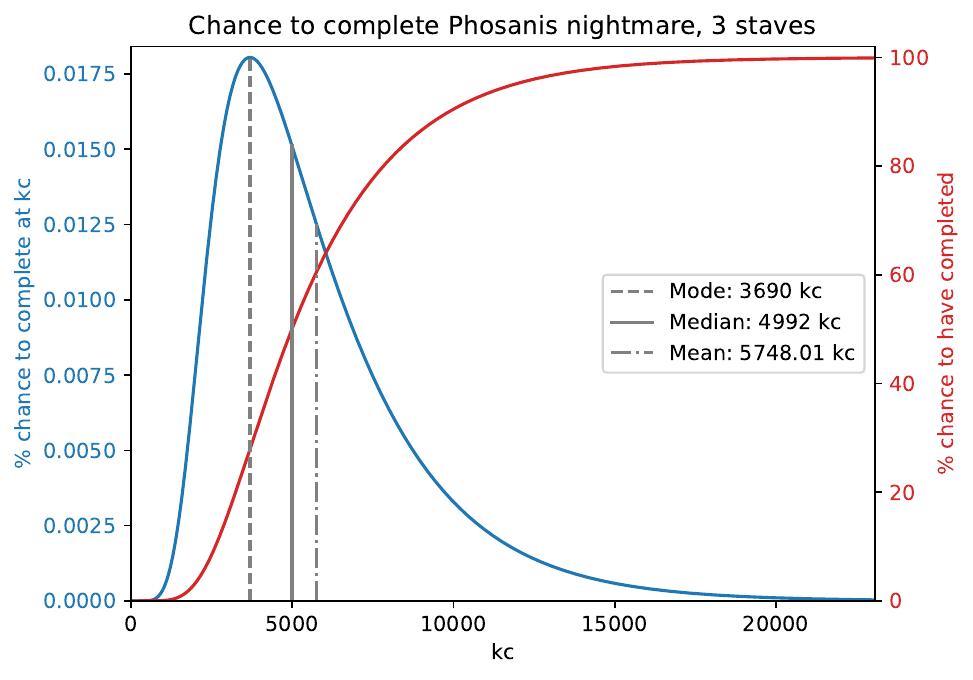
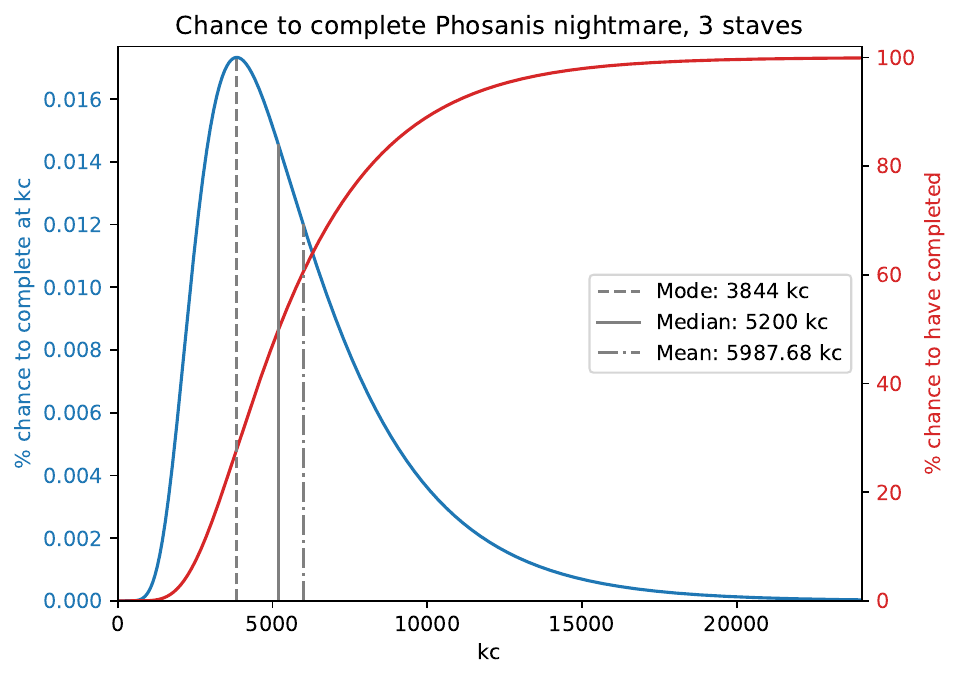
restore nm rates update phosanis

diff --git a/bosses.py b/bosses.py
@@ -378,8 +378,8 @@ class kree_arra(gwd):
     loot_amount = {"armadyl helmet":1,"armadyl chestplate":1, "armadyl chainskirt":1, "armadyl hilt":1,"godsword shard 1":0,"godsword shard 2":0,"godsword shard 3":0}
 
 class nightmare(monster):
-    loot_odds = {"inquisitor's great helm":1/960,"inquisitor's hauberk":1/960,"inquisitor's plateskirt":1/960, "inquisitor's mace":1/1920, "nightmare staff":1/640}
-    secondary_odds = {"eldritch orb":1/2880, "harmonised orb":1/2880,"volatile orb":1/2880}
+    loot_odds = {"inquisitor's great helm":1/600,"inquisitor's hauberk":1/600,"inquisitor's plateskirt":1/600, "inquisitor's mace":1/1200, "nightmare staff":1/400}
+    secondary_odds = {"eldritch orb":1/1800, "harmonised orb":1/1800,"volatile orb":1/1800}
     loot_amount = {"inquisitor's great helm":1,"inquisitor's hauberk":1,"inquisitor's plateskirt":1, "inquisitor's mace":1, "nightmare staff":1, "eldritch orb":1, "harmonised orb":1,"volatile orb":1}
 
     def __init__(self, teamsize=1, **kwargs):
@@ -404,8 +404,8 @@ class nightmare(monster):
         return loot
 
 class phosanis_nightmare(monster):
-    loot_odds = {"inquisitor's great helm":1/960,"inquisitor's hauberk":1/960,"inquisitor's plateskirt":1/960, "inquisitor's mace":1/1920, "nightmare staff":1/640}
-    secondary_odds = {"eldritch orb":1/2880, "harmonised orb":1/2880,"volatile orb":1/2880}
+    loot_odds = {"inquisitor's great helm":1/1000,"inquisitor's hauberk":1/1000,"inquisitor's plateskirt":1/1000, "inquisitor's mace":1/2000, "nightmare staff":1/667}
+    secondary_odds = {"eldritch orb":1/3000, "harmonised orb":1/3000,"volatile orb":1/3000}
     loot_amount = {"inquisitor's great helm":1,"inquisitor's hauberk":1,"inquisitor's plateskirt":1, "inquisitor's mace":1, "nightmare staff":1, "eldritch orb":1, "harmonised orb":1,"volatile orb":1}
     
     def __init__(self, teamsize=1, **kwargs):
@@ -577,5 +577,5 @@ nex8man = nex(loot_amount = {"Zaryte vambraces":1,"Torva full helm (damaged)":1,
 
 tob3man = theatre_of_blood(loot_amount = {"scythe of vitur":1, "grazi rapier":1,"sanguinesti staff":1, "justiciar faceguard":1, "justiciar chestguard":1, "justiciar legguard":1, "avernic hilt":1}, name="Theatre of blood (3 man)", teamsize=3)
 
-complete_drops = [pnightjustinq, pnightinq, cg, cg1seed, hydra, hydra2, krak, kq, dks, ven, ven2, ven3, cerb, cerb2, sire, corp, zul, zul2, pnight, night, vork, temp, temp1, temp2, nextorvavambraces, nextorva, nextorvanihilvambraces, nex6man, tob3man]
+complete_drops = [pnightjustinq, pnightinq, cg, cg1seed, hydra, hydra2, krak, kq, dks, ven, ven2, ven3, cerb, cerb2, sire, corp, zul, zul2, pnight, night, vork, temp, temp1, temp2, nextorvavambraces, nextorva, nextorvanihilvambraces, nex6man, tob3man, nex8man]
 all_bosses = [barrows(), nex(), phosanis_nightmare(), tempoross(), nightmare(), grotesque_guardians(), abyssal_sire(), cave_kraken(), cerberus(), thermonuclear_smoke_devil(), alchemical_hydra(), chaos_fanatic(), crazy_archaeologist(), scorpia(), vetion(), venenatis(), callisto(), obor(), bryophyta(), mimic(), hespori(), zalcano(), wintertodt(), corrupted_gauntlet(), gauntlet(), dagannoth_rex(), dagannoth_supreme(), dagannoth_prime(), sarachnis(), kalphite_queen(), zulrah(), vorkath(), corporeal_beast(), commander_zilyana(), general_graardor(), kril_tsutsaroth(), kree_arra(), theatre_of_blood(), chambers_of_xeric(), theatre_of_blood_hard_mode()]

diff --git a/drop_rolling.py b/drop_rolling.py
@@ -1,5 +1,5 @@
 from logging import error
-from bosses import all_bosses, complete_drops, nex8man
+from bosses import all_bosses, complete_drops
 import matplotlib
 from collections import Counter
 from multiprocessing import Pool
@@ -89,8 +89,7 @@ def createCompletionPlot(boss):
     plt.savefig(f"images/{boss.name.strip().lower()}.pdf", bbox_inches='tight')
 
 if __name__ == '__main__':
-    # bosses = all_bosses + complete_drops
+    bosses = all_bosses + complete_drops
 
-    createCompletionPlot(nex8man)
-    # pool = Pool(processes=pool_size)
-    # pool.map(createCompletionPlot, bosses)
+    pool = Pool(processes=pool_size)
+    pool.map(createCompletionPlot, bosses)

diff --git a/README.md b/README.md
@@ -1,4 +1,4 @@
 # rsdrops
-Simulates drops from mobs in rs.
+Calculates drop rate from bosses in rs.
 
 Make sure to make an images folder in the root folder before running. Images are outputted as PDF and can be converted to png.
